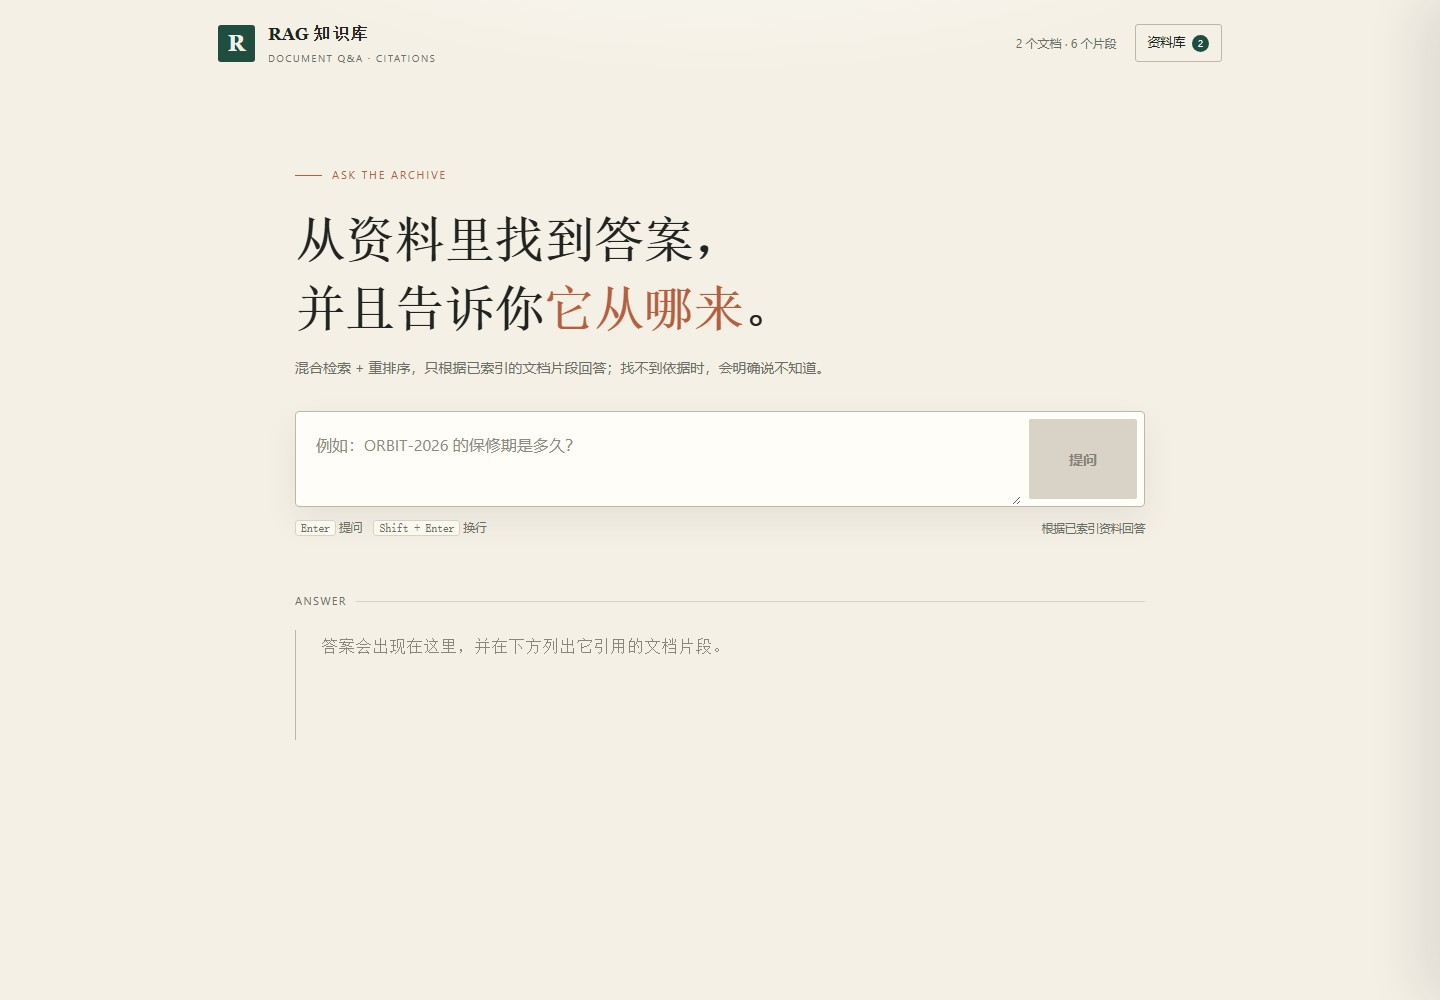
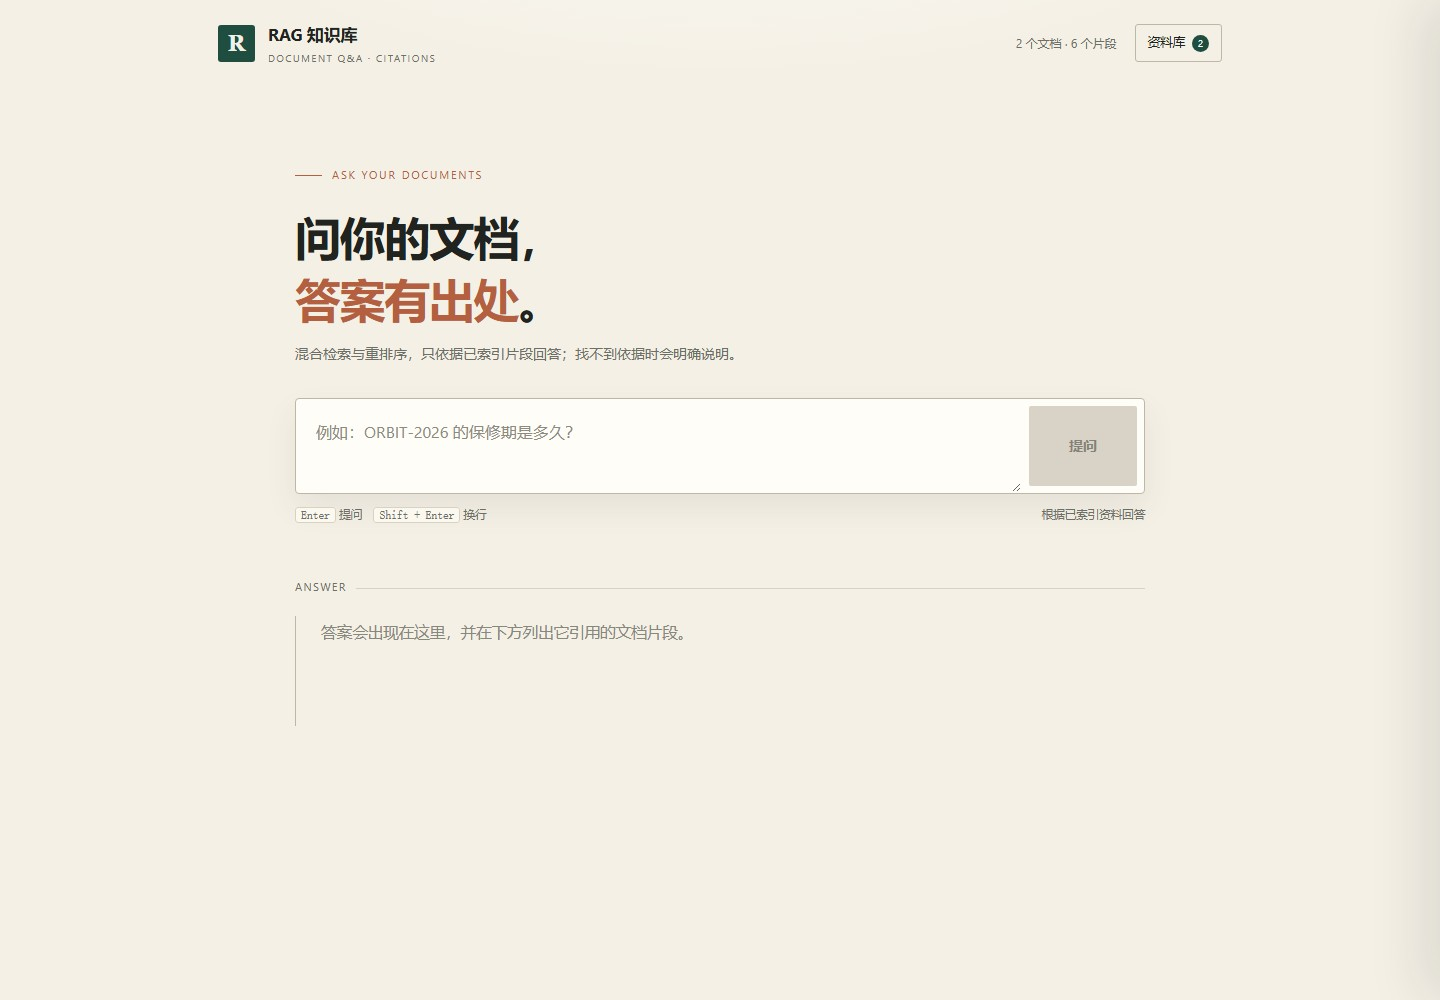
改掉首页土味文案，标题改为现代无衬线
标题从“从资料里找到答案…”改为“问你的文档，答案有出处。”；主标题改用无衬线字体，保留纸色与深绿/陶土视觉。

diff --git a/static/index.html b/static/index.html
@@ -46,7 +46,7 @@
       background: var(--forest); color: #f4f0e6; border-radius: 3px;
       font-family: var(--serif); font-size: 22px; font-weight: 700;
     }
-    .brand strong { display: block; font-family: var(--serif); font-size: 17px; letter-spacing: .2px; }
+    .brand strong { display: block; font-size: 17px; font-weight: 650; letter-spacing: -.2px; }
     .brand small {
       display: block; color: var(--muted); margin-top: 1px;
       font-size: 9.5px; letter-spacing: 1.7px;
@@ -72,11 +72,11 @@
     .eyebrow::before { content: ""; width: 27px; height: 1px; background: var(--clay); }
     .hero h1 {
       margin: 20px 0 13px;
-      font-family: var(--serif);
-      font-size: clamp(31px, 4.4vw, 50px);
-      font-weight: 600;
-      letter-spacing: -1.2px;
-      line-height: 1.38;
+      font-family: Inter, "Segoe UI", "Microsoft YaHei", sans-serif;
+      font-size: clamp(30px, 4.1vw, 46px);
+      font-weight: 650;
+      letter-spacing: -1.4px;
+      line-height: 1.35;
       color: var(--ink);
     }
     .hero h1 em { color: var(--clay); font-style: normal; }
@@ -121,7 +121,7 @@
     }
     .answer-text {
       margin: 0; white-space: pre-wrap; overflow-wrap: anywhere;
-      font-family: var(--serif); font-size: 17px; line-height: 1.95; color: #30352f;
+      font-size: 15.5px; line-height: 1.95; color: #30352f;
     }
     .answer-text.placeholder { color: #88877b; }
     .answer-text strong { color: var(--ink); font-weight: 700; }
@@ -164,7 +164,7 @@
     }
     .drawer.open { transform: translateX(0); }
     .drawer-head { display: flex; justify-content: space-between; align-items: flex-start; padding: 26px 25px 17px; }
-    .drawer-head h2 { font-family: var(--serif); font-size: 22px; margin: 3px 0 0; letter-spacing: -.4px; }
+    .drawer-head h2 { font-size: 22px; margin: 3px 0 0; letter-spacing: -.4px; }
     .close {
       border: 0; background: transparent; color: var(--muted);
       font-size: 24px; line-height: 1; padding: 1px 6px;
@@ -247,9 +247,9 @@
     </header>
 
     <section class="hero">
-      <div class="eyebrow">ASK THE ARCHIVE</div>
-      <h1>从资料里找到答案，<br>并且告诉你<em>它从哪来</em>。</h1>
-      <p>混合检索 + 重排序，只根据已索引的文档片段回答；找不到依据时，会明确说不知道。</p>
+      <div class="eyebrow">ASK YOUR DOCUMENTS</div>
+      <h1>问你的文档，<br><em>答案有出处</em>。</h1>
+      <p>混合检索与重排序，只依据已索引片段回答；找不到依据时会明确说明。</p>
 
       <div class="ask">
         <textarea id="question" maxlength="500" placeholder="例如：ORBIT-2026 的保修期是多久？"></textarea>
